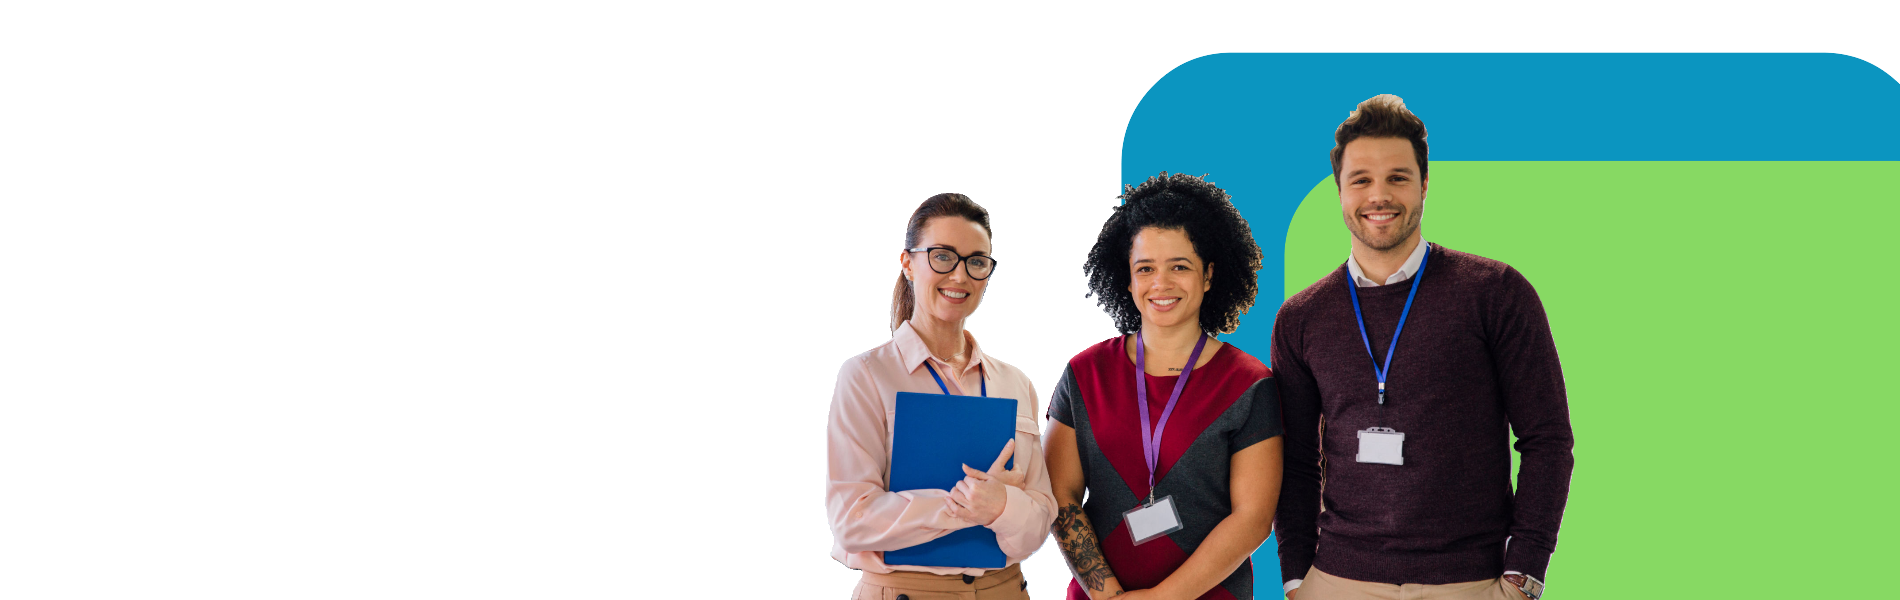
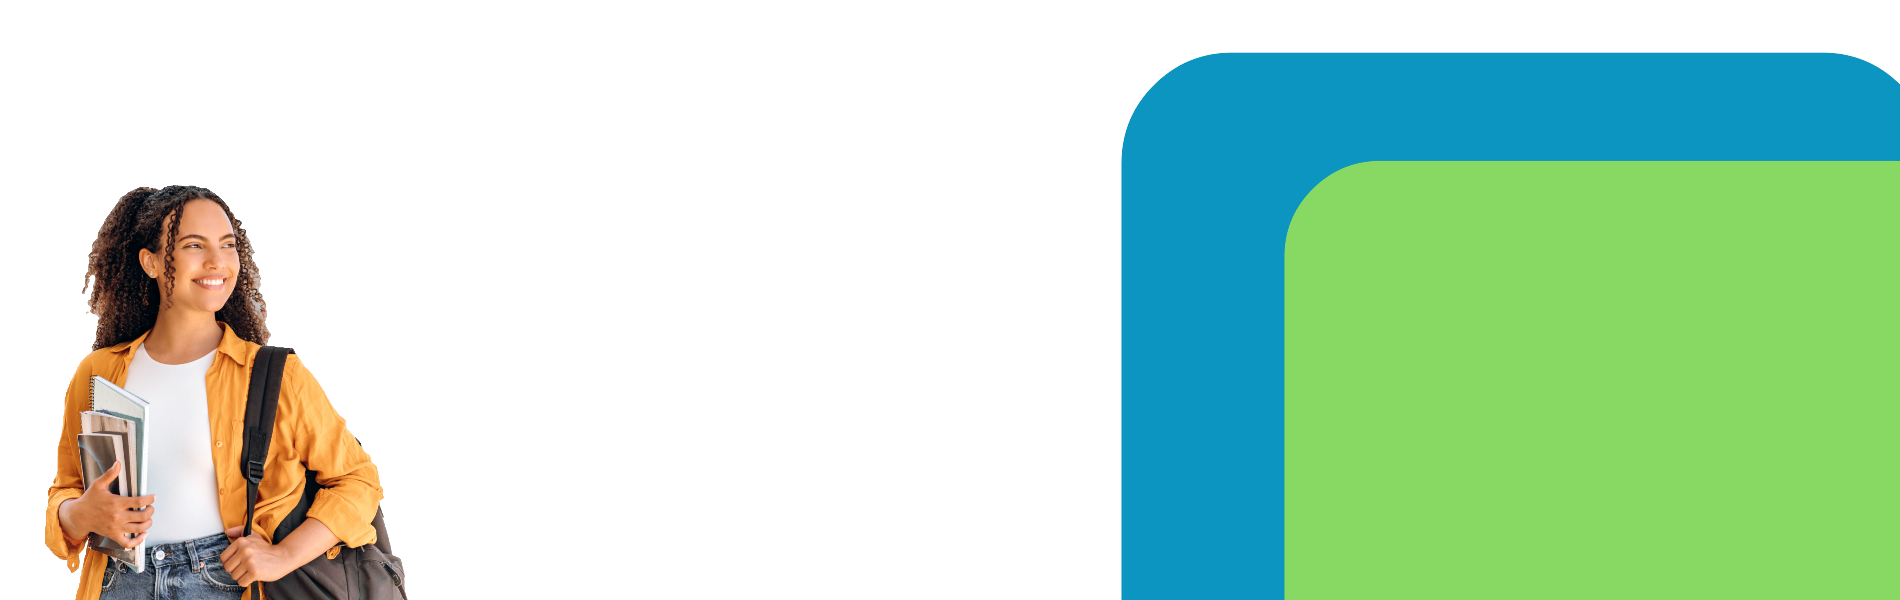
delete some image

Changed region(s): [[0.4347, 0.15, 0.8384, 1.0], [0.0, 0.3, 0.2174, 1.0]]

diff --git a/src/styles/style.css b/src/styles/style.css
@@ -61,7 +61,7 @@ ul {
 .carousel-caption {
   position: absolute;
   top: 20%;
-  left: 15% !important;
+  left: 20% !important;
   text-align: left !important;
 }
 .carousel-caption h1 {
@@ -82,31 +82,6 @@ ul {
   padding: 0.5rem 3rem;
 }
 
-.carousel-caption h1 {
-  opacity: 0;
-  transform: translateX(-100px);
-  animation: slideIn 1s ease forwards;
-  animation-delay: 0.2s;
-}
-.carousel-caption h4 {
-  opacity: 0;
-  transform: translateX(-100px);
-  animation: slideIn 1s ease forwards;
-  animation-delay: 0.7s;
-}
-.carousel-caption button {
-  opacity: 0;
-  transform: translateX(-100px);
-  animation: slideIn 1s ease forwards;
-  animation-delay: 1.2s;
-}
-
-@keyframes slideIn {
-  to {
-    opacity: 1;
-    transform: translateX(0);
-  }
-}
 .homeCarousel {
   opacity: 0;
   transition: opacity 2s ease;

diff --git a/src/styles/_home.scss b/src/styles/_home.scss
@@ -6,7 +6,7 @@
 .carousel-caption {
   position: absolute;
   top: 20%;
-  left: 15% !important;
+  left: 20% !important;
   text-align: left !important;
   h1 {
     font-size: 4rem;
@@ -24,36 +24,6 @@
     margin-left: 0.5rem;
     font-size: 1rem;
     padding: 0.5rem 3rem;
-  }
-}
-
-.carousel-caption {
-  h1 {
-    opacity: 0;
-    transform: translateX(-100px);
-    animation: slideIn 1s ease forwards;
-    animation-delay: 0.2s;
-  }
-
-  h4 {
-    opacity: 0;
-    transform: translateX(-100px);
-    animation: slideIn 1s ease forwards;
-    animation-delay: 0.7s;
-  }
-
-  button {
-    opacity: 0;
-    transform: translateX(-100px);
-    animation: slideIn 1s ease forwards;
-    animation-delay: 1.2s;
-  }
-}
-
-@keyframes slideIn {
-  to {
-    opacity: 1;
-    transform: translateX(0);
   }
 }
 
